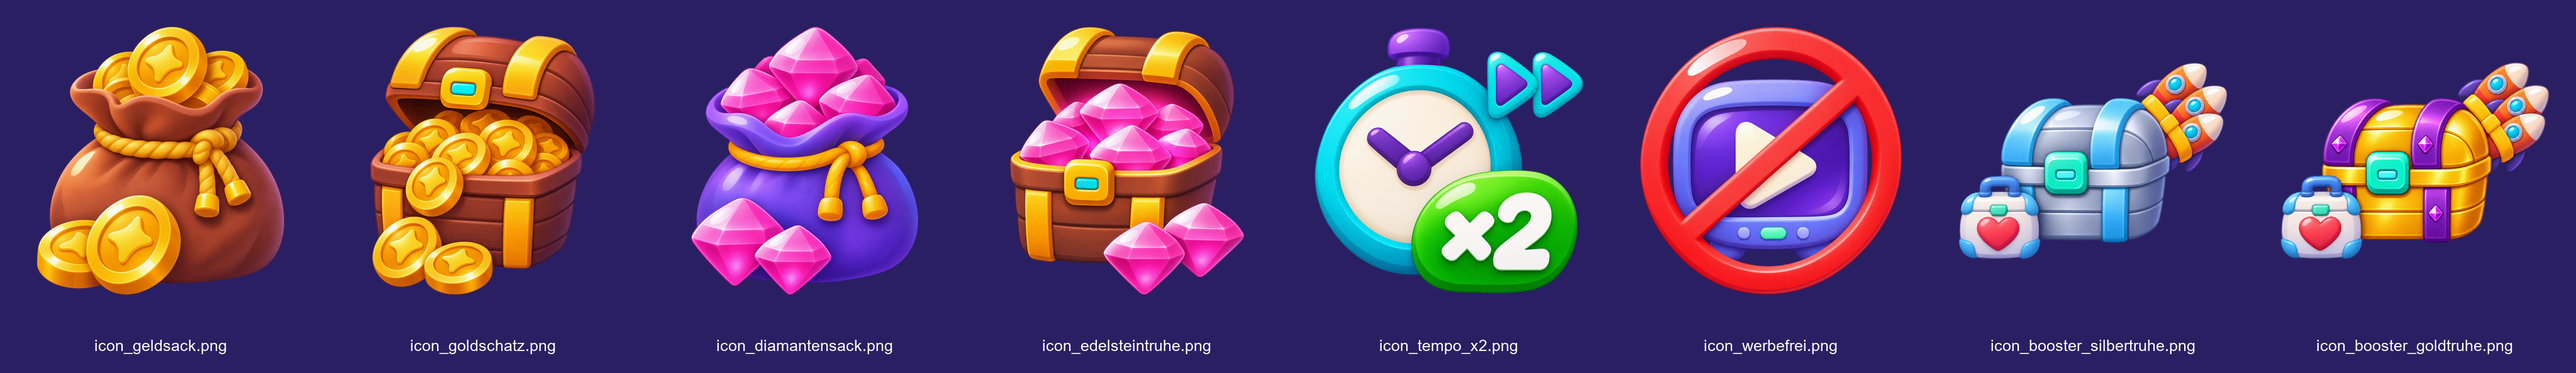
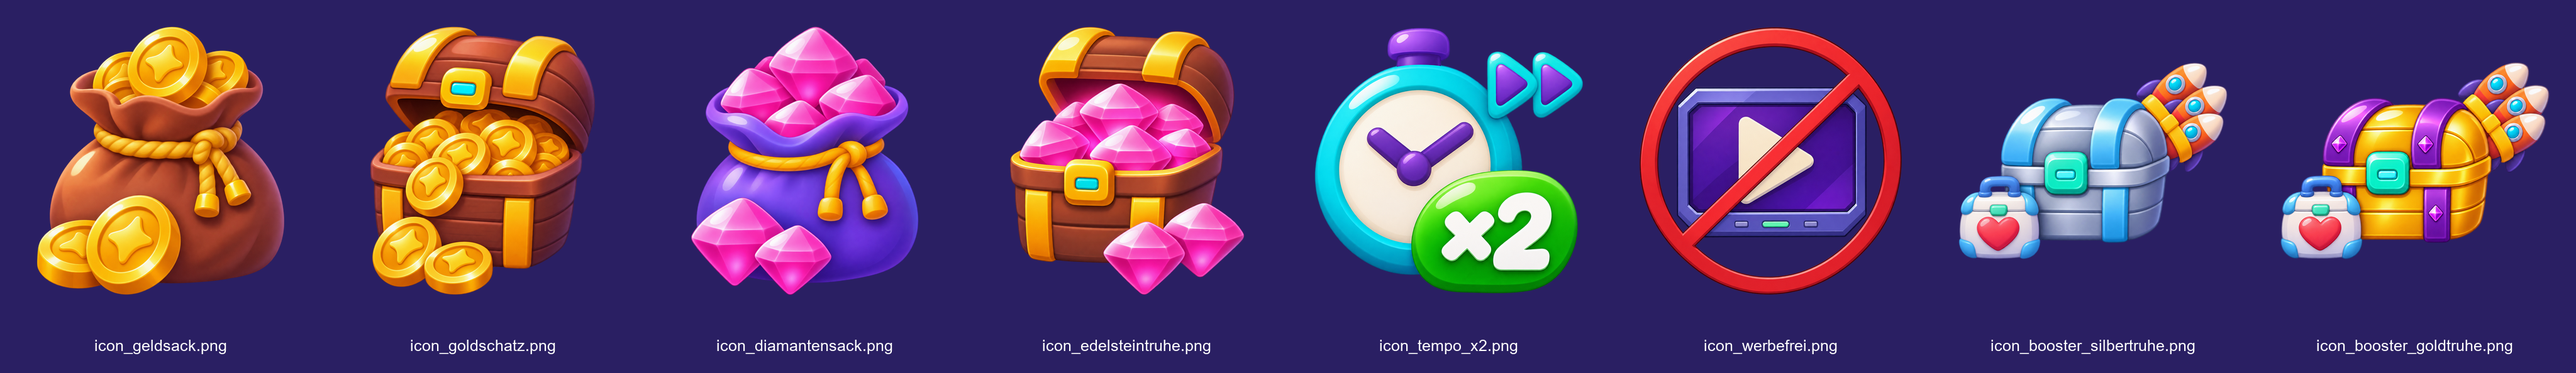
Freigegebenes Werbefrei-Symbol übernehmen und Shop-Paket aktualisieren

Changed region(s): [[0.625, 0.0606, 0.75, 0.7879]]

diff --git a/Vorlage_Raw/Shop_Bilder_v1/LIESMICH_CLAUDE.md b/Vorlage_Raw/Shop_Bilder_v1/LIESMICH_CLAUDE.md
@@ -1,5 +1,9 @@
 # Acht fehlende Shop-Symbole
 
+## Freigegebene Anpassung vom 5. November 2026
+
+`icon_werbefrei.png` enthält die bestätigte, etwas ernsthaftere Variante: schlankerer Rahmen mit klaren gefasten Kanten, kompakte Bedienelemente und zurückhaltender Glanz. Violettblauer Bildschirm, Abspiel-Dreieck und rotes Verbotszeichen bleiben erhalten. Die Übersicht zeigt bereits diese neue Fassung. Die übrigen sieben Symbole bleiben in ihrer freigegebenen Form. Die zusätzliche Bildanweisung steht unter „Korrektur“ in `BILDANWEISUNG.txt`.
+
 Nur die acht angeforderten Symbole ergänzen. Vorhandene Münz-/Edelstein-Stapel, Truhe, Uhr, Booster, Shop-Seiten, Preise und Knöpfe bleiben unverändert. Die Bilder enthalten keine Preise oder Texte; einzige Ausnahme ist `×2` im Tempo-Symbol.
 
 | Datei | Motiv | Größe | Einsatz im bestehenden Shop |
